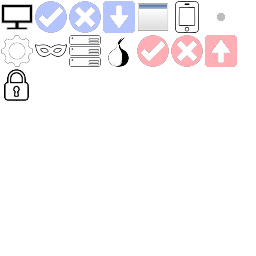
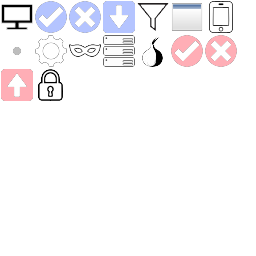
Daemon, GUI: Add filters
Filters count traffic based on a rule and are shown at the top of the traffic tree. There's currently only two hard-coded filters for Internet and LAN traffic based on rudimentary IP range rules.

Changed region(s): [[0.0, 0.0, 0.9375, 0.4062]]

diff --git a/Source/Daemon/Data/SystemMap.cpp b/Source/Daemon/Data/SystemMap.cpp
@@ -96,11 +96,27 @@ void WSystemMap::DoPacketParsing(WSocketEvent const& Event, std::shared_ptr<WSoc
 				{
 					ZoneScopedN("PushOutgoingTraffic");
 					TupleCounter->PushOutgoingTraffic(Event.Data.TrafficEventData.Bytes);
+
+					for (auto const& Filter : FilterCounters)
+					{
+						if (Filter->FilterFunction(TupleCounter->TrafficItem->ItemId, &LocalEndpoint, &RemoteEndpoint))
+						{
+							Filter->PushOutgoingTraffic(Event.Data.TrafficEventData.Bytes);
+						}
+					}
 				}
 				else
 				{
 					ZoneScopedN("PushIncomingTraffic");
 					TupleCounter->PushIncomingTraffic(Event.Data.TrafficEventData.Bytes);
+
+					for (auto const& Filter : FilterCounters)
+					{
+						if (Filter->FilterFunction(TupleCounter->TrafficItem->ItemId, &LocalEndpoint, &RemoteEndpoint))
+						{
+							Filter->PushIncomingTraffic(Event.Data.TrafficEventData.Bytes);
+						}
+					}
 				}
 
 				if (!bTupleExists)
@@ -137,6 +153,35 @@ std::shared_ptr<WTupleCounter> WSystemMap::GetOrCreateUDPTupleCounter(
 	SockCounter->UDPPerConnectionCounters[Endpoint] = TupleCounter;
 	WNetworkEvents::GetInstance().OnUDPTupleCreated(TupleCounter, Endpoint);
 	return TupleCounter;
+}
+
+void WSystemMap::RegisterDefaultFilters()
+{
+	auto AddFilter = [this](std::string const&                                                          Name,
+						 std::function<bool(WTrafficItemId const&, WEndpoint const*, WEndpoint const*)> Func) {
+		auto FilterItem = std::make_shared<WFilterItem>();
+		FilterItem->Name = Name.c_str();
+		FilterItem->ItemId = GetNextItemId();
+		auto FilterCounter = new WFilterCounter(FilterItem);
+		FilterCounter->FilterFunction = Func;
+		SystemItem->Filters.emplace_back(FilterItem);
+		FilterCounters.emplace_back(FilterCounter);
+	};
+
+	AddFilter("Internet", [](WTrafficItemId const&, WEndpoint const*, WEndpoint const* Remote) {
+		if (Remote)
+		{
+			return Remote->Address.IsInternetAddress();
+		}
+		return false;
+	});
+	AddFilter("LAN", [](WTrafficItemId const&, WEndpoint const*, WEndpoint const* Remote) {
+		if (Remote)
+		{
+			return Remote->Address.IsLANAddress();
+		}
+		return false;
+	});
 }
 
 void WSystemMap::AddExistingSockets()
@@ -256,6 +301,7 @@ WSystemMap::WSystemMap()
 	{
 		SystemItem->HostName = HostName;
 	}
+	RegisterDefaultFilters();
 }
 
 static std::string NormalizeAppImagePaths(std::string const& path)
@@ -494,6 +540,11 @@ void WSystemMap::RefreshAllTrafficCounters()
 	std::lock_guard Lock(DataMutex);
 	TrafficCounter.Refresh();
 
+	for (auto const& Filter : FilterCounters)
+	{
+		Filter->Refresh();
+	}
+
 	for (auto const& App : Applications | std::views::values)
 	{
 		App->Refresh();
@@ -543,6 +594,15 @@ void WSystemMap::PushIncomingTraffic(WSocketEvent const& Event)
 			Socket->TrafficItem->ConnectionState = ESocketConnectionState::Connected;
 			Socket->ParentProcess->PushIncomingTraffic(Bytes);
 			Socket->ParentProcess->ParentApp->PushIncomingTraffic(Bytes);
+
+			for (auto const& Filter : FilterCounters)
+			{
+				if (Filter->FilterFunction(Socket->TrafficItem->ItemId, &Socket->TrafficItem->SocketTuple.LocalEndpoint,
+						&Socket->TrafficItem->SocketTuple.RemoteEndpoint))
+				{
+					Filter->PushIncomingTraffic(Bytes);
+				}
+			}
 		}
 
 		DoPacketParsing(Event, Socket);
@@ -565,6 +625,15 @@ void WSystemMap::PushOutgoingTraffic(WSocketEvent const& Event)
 			Socket->TrafficItem->ConnectionState = ESocketConnectionState::Connected;
 			Socket->ParentProcess->PushOutgoingTraffic(Bytes);
 			Socket->ParentProcess->ParentApp->PushOutgoingTraffic(Bytes);
+
+			for (auto const& Filter : FilterCounters)
+			{
+				if (Filter->FilterFunction(Socket->TrafficItem->ItemId, &Socket->TrafficItem->SocketTuple.LocalEndpoint,
+						&Socket->TrafficItem->SocketTuple.RemoteEndpoint))
+				{
+					Filter->PushOutgoingTraffic(Bytes);
+				}
+			}
 		}
 
 		DoPacketParsing(Event, Socket);
@@ -592,7 +661,8 @@ WMemoryStat WSystemMap::GetMemoryUsage()
 	std::scoped_lock Lock(DataMutex);
 	WMemoryStat      Stats;
 	Stats.Name = "WSystemMap";
-	WMemoryStatEntry Apps{}, ProcessesEntry{}, SocketsEntry{}, TrafficItemsEntry{}, UDPPerConnectionCountersEntry{};
+	WMemoryStatEntry Apps{}, ProcessesEntry{}, SocketsEntry{}, TrafficItemsEntry{}, UDPPerConnectionCountersEntry{},
+		FiltersEntry{};
 
 	Apps.Name = "Applications";
 	Apps.Usage += sizeof(decltype(Applications));
@@ -618,6 +688,11 @@ WMemoryStat WSystemMap::GetMemoryUsage()
 			Socket->UDPPerConnectionCounters.size() * (sizeof(WEndpoint) + sizeof(WTupleCounter) + sizeof(WTupleItem));
 	}
 
+	FiltersEntry.Name = "Filters";
+	FiltersEntry.Usage = sizeof(decltype(FilterCounters));
+	FiltersEntry.Usage += sizeof(WFilterCounter) * FilterCounters.size();
+	FiltersEntry.Usage += sizeof(WFilterItem) * FilterCounters.size();
+
 	TrafficItemsEntry.Name = "All traffic items";
 	TrafficItemsEntry.Usage += sizeof(decltype(TrafficItems));
 	TrafficItemsEntry.Usage += (sizeof(WTrafficItemId) + sizeof(ITrafficItem)) * TrafficItems.size();
@@ -627,6 +702,7 @@ WMemoryStat WSystemMap::GetMemoryUsage()
 	Stats.ChildEntries.emplace_back(SocketsEntry);
 	Stats.ChildEntries.emplace_back(TrafficItemsEntry);
 	Stats.ChildEntries.emplace_back(UDPPerConnectionCountersEntry);
+	Stats.ChildEntries.emplace_back(FiltersEntry);
 	return Stats;
 }
 

diff --git a/Source/Gui/Icons/IconAtlas.cpp b/Source/Gui/Icons/IconAtlas.cpp
@@ -14,17 +14,18 @@ std::unordered_map<std::string, std::pair<ImVec2, ImVec2>> const ICON_ATLAS_UV =
 	{ "downloadallow", std::make_pair(ImVec2(0.136719f, 0.003906f), ImVec2(0.261719f, 0.128906f)) },
 	{ "downloadblock", std::make_pair(ImVec2(0.269531f, 0.003906f), ImVec2(0.394531f, 0.128906f)) },
 	{ "downloadlimit", std::make_pair(ImVec2(0.402344f, 0.003906f), ImVec2(0.527344f, 0.128906f)) },
-	{ "noicon", std::make_pair(ImVec2(0.535156f, 0.003906f), ImVec2(0.660156f, 0.128906f)) },
-	{ "phone", std::make_pair(ImVec2(0.667969f, 0.003906f), ImVec2(0.792969f, 0.128906f)) },
-	{ "placeholder", std::make_pair(ImVec2(0.800781f, 0.003906f), ImVec2(0.925781f, 0.128906f)) },
-	{ "process", std::make_pair(ImVec2(0.003906f, 0.136719f), ImVec2(0.128906f, 0.261719f)) },
-	{ "proxy", std::make_pair(ImVec2(0.136719f, 0.136719f), ImVec2(0.261719f, 0.261719f)) },
-	{ "server", std::make_pair(ImVec2(0.269531f, 0.136719f), ImVec2(0.394531f, 0.261719f)) },
-	{ "tor", std::make_pair(ImVec2(0.402344f, 0.136719f), ImVec2(0.527344f, 0.261719f)) },
-	{ "uploadallow", std::make_pair(ImVec2(0.535156f, 0.136719f), ImVec2(0.660156f, 0.261719f)) },
-	{ "uploadblock", std::make_pair(ImVec2(0.667969f, 0.136719f), ImVec2(0.792969f, 0.261719f)) },
-	{ "uploadlimit", std::make_pair(ImVec2(0.800781f, 0.136719f), ImVec2(0.925781f, 0.261719f)) },
-	{ "vpn", std::make_pair(ImVec2(0.003906f, 0.269531f), ImVec2(0.128906f, 0.394531f)) },
+	{ "filter", std::make_pair(ImVec2(0.535156f, 0.003906f), ImVec2(0.660156f, 0.128906f)) },
+	{ "noicon", std::make_pair(ImVec2(0.667969f, 0.003906f), ImVec2(0.792969f, 0.128906f)) },
+	{ "phone", std::make_pair(ImVec2(0.800781f, 0.003906f), ImVec2(0.925781f, 0.128906f)) },
+	{ "placeholder", std::make_pair(ImVec2(0.003906f, 0.136719f), ImVec2(0.128906f, 0.261719f)) },
+	{ "process", std::make_pair(ImVec2(0.136719f, 0.136719f), ImVec2(0.261719f, 0.261719f)) },
+	{ "proxy", std::make_pair(ImVec2(0.269531f, 0.136719f), ImVec2(0.394531f, 0.261719f)) },
+	{ "server", std::make_pair(ImVec2(0.402344f, 0.136719f), ImVec2(0.527344f, 0.261719f)) },
+	{ "tor", std::make_pair(ImVec2(0.535156f, 0.136719f), ImVec2(0.660156f, 0.261719f)) },
+	{ "uploadallow", std::make_pair(ImVec2(0.667969f, 0.136719f), ImVec2(0.792969f, 0.261719f)) },
+	{ "uploadblock", std::make_pair(ImVec2(0.800781f, 0.136719f), ImVec2(0.925781f, 0.261719f)) },
+	{ "uploadlimit", std::make_pair(ImVec2(0.003906f, 0.269531f), ImVec2(0.128906f, 0.394531f)) },
+	{ "vpn", std::make_pair(ImVec2(0.136719f, 0.269531f), ImVec2(0.261719f, 0.394531f)) },
 };
 
 void WIconAtlas::Load()

diff --git a/Source/Gui/Windows/TrafficTree.cpp b/Source/Gui/Windows/TrafficTree.cpp
@@ -91,6 +91,10 @@ inline bool DrawIcon(
 	{
 		WIconAtlas::GetInstance().DrawIcon("process", ImVec2{ IconSize, IconSize });
 	}
+	else if (Item->GetType() == TI_Filter)
+	{
+		WIconAtlas::GetInstance().DrawIcon("filter", ImVec2{ IconSize, IconSize });
+	}
 	else
 	{
 		WIconAtlas::GetInstance().DrawIcon("computer", ImVec2{ IconSize, IconSize });
@@ -240,6 +244,11 @@ void WTrafficTree::LoadFromBuffer(WBuffer const& Buffer)
 				TrafficItems[Sock->ItemId] = Sock;
 			}
 		}
+	}
+
+	for (auto const& Filter : Root->Filters)
+	{
+		TrafficItems[Filter->ItemId] = Filter;
 	}
 
 	TrafficItems[0] = Root;
@@ -476,6 +485,20 @@ void WTrafficTree::Draw(ImGuiID MainID)
 		ImGui::EndChild();
 		ImGui::End();
 		return;
+	}
+
+	// Draw filters first always
+	for (auto const& Filter : Root->Filters)
+	{
+		ImGui::TableNextRow();
+		ImGui::PushID(Filter->ItemId);
+		WRenderItemArgs Args;
+		Args.Name = Filter->Name;
+		Args.Item = Filter;
+		Args.NodeFlags = ImGuiTreeNodeFlags_Leaf;
+		RenderItem(Args);
+		ImGui::PopID();
+		ImGui::TreePop();
 	}
 
 	for (auto const& [Name, Child] : Root->Applications)

diff --git a/Source/Util/Data/FilterItem.hpp b/Source/Util/Data/FilterItem.hpp
@@ -1,0 +1,22 @@
+/*
+ * Copyright (c) 2026, Alex <[email redacted]>
+ * SPDX-License-Identifier: BSD-3-Clause
+ */
+
+#pragma once
+#include <string>
+
+#include "TrafficItem.hpp"
+
+class WFilterItem : public ITrafficItem
+{
+public:
+	std::string Name;
+	template <class Archive>
+	void serialize(Archive& archive)
+	{
+		archive(ItemId, DownloadSpeed, UploadSpeed, TotalDownloadBytes, TotalUploadBytes, Name);
+	}
+
+	[[nodiscard]] ETrafficItemType GetType() const override { return TI_Filter; }
+};

diff --git a/Source/Gui/Windows/DetailsWindow.cpp b/Source/Gui/Windows/DetailsWindow.cpp
@@ -77,6 +77,23 @@ static char const* ProtocolToString(EProtocol::Type Protocol)
 	}
 }
 
+void WDetailsWindow::DrawFilterDetails() const
+{
+	auto const Filter = Tree->GetSeletedTrafficItem<WFilterItem>();
+
+	if (Filter == nullptr)
+	{
+		return;
+	}
+	WIconAtlas::GetInstance().DrawIcon("filter", ImVec2(16, 16));
+
+	ImGui::SameLine();
+	ImGui::Text("%s", Filter->Name.c_str());
+	ImGui::Separator();
+	ImGui::Text("%s: %s", TR("__total_download"), WStorageFormat::AutoFormat(Filter->TotalDownloadBytes).c_str());
+	ImGui::Text("%s: %s", TR("__total_upload"), WStorageFormat::AutoFormat(Filter->TotalUploadBytes).c_str());
+}
+
 void WDetailsWindow::DrawSystemDetails() const
 {
 	auto const System = Tree->GetSeletedTrafficItem<WSystemItem>();
@@ -291,6 +308,7 @@ void WDetailsWindow::Draw() const
 			case TI_Tuple:
 				DrawTupleDetails();
 				break;
+			default:;
 		}
 	}
 

diff --git a/Source/Daemon/Data/Counters.hpp b/Source/Daemon/Data/Counters.hpp
@@ -6,11 +6,13 @@
 #pragma once
 #include <memory>
 #include <unordered_map>
+#include <functional>
 
 #include "spdlog/spdlog.h"
 
 #include "TrafficCounter.hpp"
 #include "Data/ApplicationItem.hpp"
+#include "Data/FilterItem.hpp"
 #include "EBPFCommon.h"
 
 struct WAppCounter : TTrafficCounter<WApplicationItem>
@@ -56,7 +58,7 @@ struct WTupleCounter : TTrafficCounter<WTupleItem>
 	void Refresh() override
 	{
 		TTrafficCounter::Refresh();
-		// If a UDP socket has not sent/received data on a connection for one minute,
+		// If a UDP socket has not sent/received data on a connection for five seconds,
 		// we'll treat it as dead. In the worst case it'll be re-added once traffic
 		// is detected for it again
 		if (State != CS_PendingRemoval && InactiveCounter >= 5)
@@ -65,4 +67,11 @@ struct WTupleCounter : TTrafficCounter<WTupleItem>
 			MarkForRemoval();
 		}
 	}
+};
+
+struct WFilterCounter : TTrafficCounter<WFilterItem>
+{
+	std::function<bool(WTrafficItemId const&, WEndpoint const*, WEndpoint const*)> FilterFunction;
+
+	explicit WFilterCounter(std::shared_ptr<WFilterItem> const& Item) : TTrafficCounter(Item) {}
 };

diff --git a/Source/Daemon/Data/MapUpdate.cpp b/Source/Daemon/Data/MapUpdate.cpp
@@ -69,6 +69,14 @@ WTrafficTreeUpdates const& WMapUpdate::GetUpdates()
 	FetchActiveCounters(SM.Applications, Updates.UpdatedItems);
 	FetchActiveCounters(SM.Processes, Updates.UpdatedItems);
 
+	for (auto const& Filter : SM.FilterCounters)
+	{
+		if (Filter->IsActive())
+		{
+			Updates.UpdatedItems.emplace_back(*Filter->TrafficItem);
+		}
+	}
+
 	for (auto const& Socket : SM.Sockets | std::views::values)
 	{
 		if (!Socket->IsActive())

diff --git a/Source/Util/Data/SystemItem.hpp b/Source/Util/Data/SystemItem.hpp
@@ -12,17 +12,21 @@
 
 #include "TrafficItem.hpp"
 #include "ApplicationItem.hpp"
+#include "FilterItem.hpp"
 
 struct WSystemItem : ITrafficItem
 {
 	std::string HostName{ "System" };
+
+	std::vector<std::shared_ptr<WFilterItem>> Filters;
 
 	std::unordered_map<std::string, std::shared_ptr<WApplicationItem>> Applications;
 
 	template <class Archive>
 	void serialize(Archive& archive)
 	{
-		archive(ItemId, DownloadSpeed, UploadSpeed, HostName, TotalDownloadBytes, TotalUploadBytes, Applications);
+		archive(
+			ItemId, DownloadSpeed, UploadSpeed, HostName, TotalDownloadBytes, TotalUploadBytes, Applications, Filters);
 	}
 
 	[[nodiscard]] ETrafficItemType GetType() const override { return TI_System; }

diff --git a/Source/Daemon/Data/SystemMap.hpp b/Source/Daemon/Data/SystemMap.hpp
@@ -41,6 +41,8 @@ class WSystemMap : public TSingleton<WSystemMap>, public IMemoryTrackable
 	std::shared_ptr<WSystemItem> SystemItem = std::make_shared<WSystemItem>();
 	TTrafficCounter<WSystemItem> TrafficCounter{ SystemItem };
 
+	std::vector<std::unique_ptr<WFilterCounter>> FilterCounters{};
+
 	std::unordered_map<std::string, std::shared_ptr<WAppCounter>>      Applications{};
 	std::unordered_map<WProcessId, std::shared_ptr<WProcessCounter>>   Processes{};
 	std::unordered_map<WSocketCookie, std::shared_ptr<WSocketCounter>> Sockets{};
@@ -59,6 +61,9 @@ class WSystemMap : public TSingleton<WSystemMap>, public IMemoryTrackable
 
 	std::shared_ptr<WTupleCounter> GetOrCreateUDPTupleCounter(
 		std::shared_ptr<WSocketCounter> const& SockCounter, WEndpoint const& Endpoint);
+
+	void RegisterDefaultFilters();
+
 public:
 
 	WSystemMap();

diff --git a/Source/Util/Data/TrafficItem.hpp b/Source/Util/Data/TrafficItem.hpp
@@ -12,9 +12,10 @@ enum ETrafficItemType : uint8_t
 {
 	TI_System,
 	TI_Application,
+	TI_Filter,
 	TI_Process,
 	TI_Socket,
-	TI_Tuple
+	TI_Tuple,
 };
 
 struct ITrafficItem

diff --git a/Source/Gui/Windows/DetailsWindow.hpp b/Source/Gui/Windows/DetailsWindow.hpp
@@ -13,6 +13,7 @@ class WDetailsWindow
 {
 	std::shared_ptr<WTrafficTree> Tree{};
 
+	void DrawFilterDetails() const;
 	void DrawSystemDetails() const;
 	void DrawApplicationDetails() const;
 	void DrawProcessDetails() const;